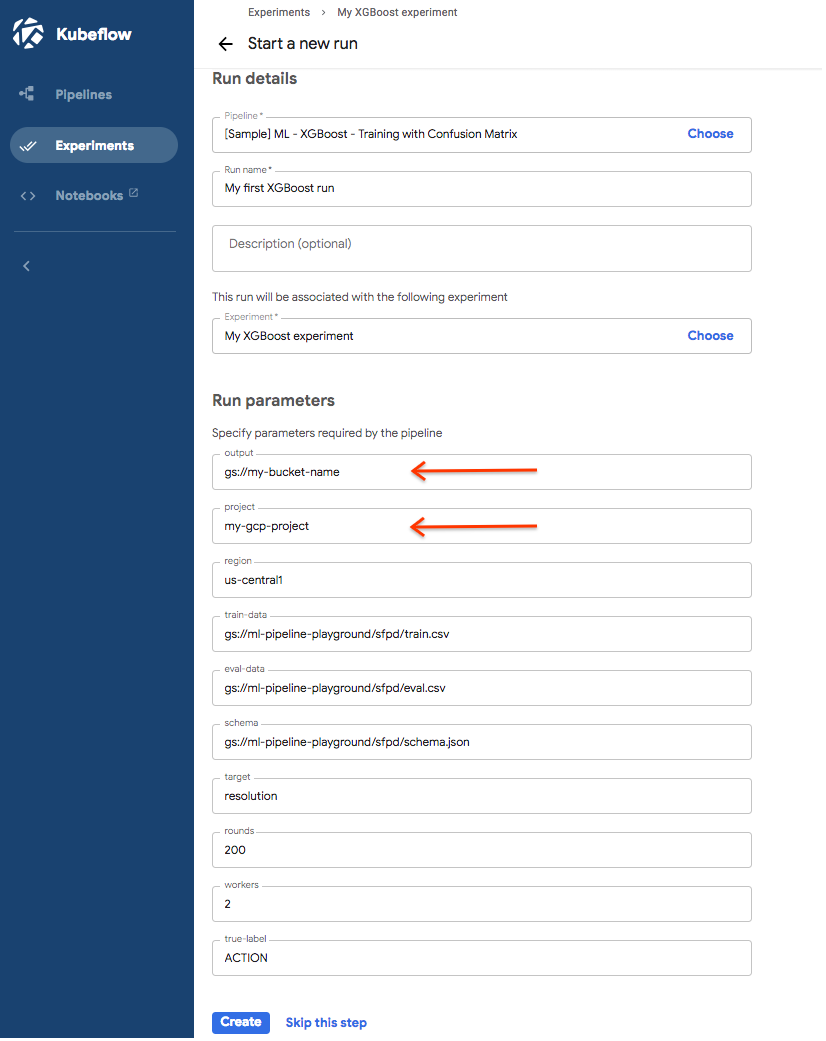
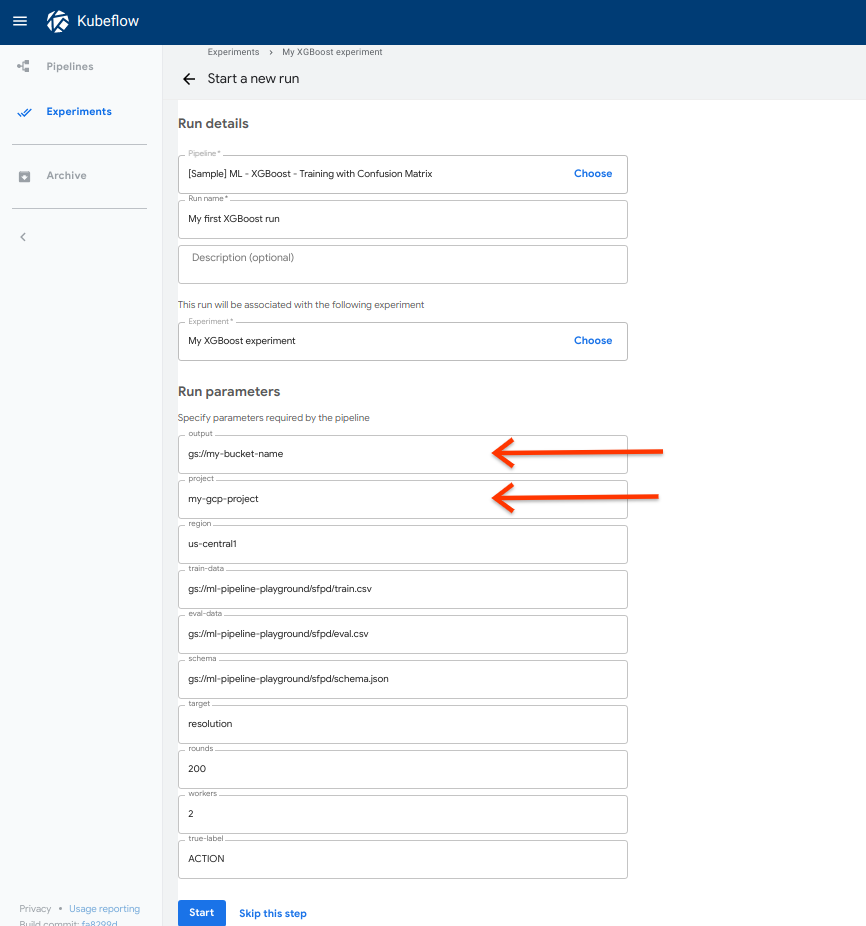
Updated screenshots and text for the sample ML pipeline.

diff --git a/content/docs/pipelines/pipelines-quickstart.md b/content/docs/pipelines/pipelines-quickstart.md
@@ -107,7 +107,7 @@ Follow these steps to set up the necessary GCP services and run the sample:
     alt="XGBoost sample on the pipelines UI"
     class="mt-3 mb-3 border border-info rounded">
 
-1. Click **Start an experiment**.
+1. Click **Create an experiment**.
 1. Follow the prompts to create an **experiment** and then create a **run**.
   Supply the following **run parameters**:
 
@@ -129,13 +129,13 @@ Follow these steps to set up the necessary GCP services and run the sample:
   * true-label: Column to be used for text representation of the label output
     by the model.
 
-    The arrows on the following screenshot indicate the parameters that you
+    The arrows on the following screenshot indicate the run parameters that you
     must supply:
     <img src="/docs/images/pipelines-start-xgboost-run.png" 
       alt="Starting the XGBoost run on the pipelines UI"
       class="mt-3 mb-3 border border-info rounded">
 
-1. Click **Create** to create the run.
+1. Click **Start** to create the run.
 1. Click the name of the run on the experiments dashboard.
 1. Explore the graph and other aspects of your run by clicking on the 
   components of the graph and the other UI elements. The following screenshot
